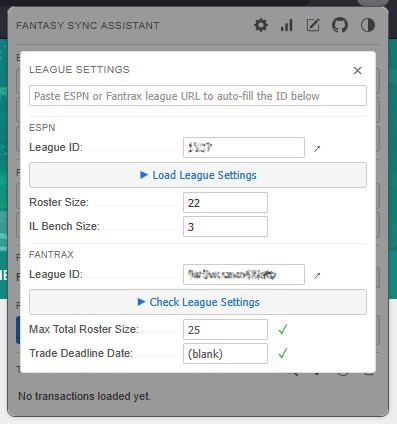
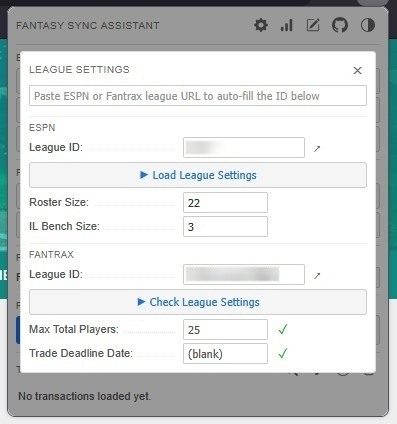
docs: add the changelog and rewrite the release steps
docs: add CHANGELOG.md with notes for every release, including an Upgrading entry for v1.1.0

docs: rename RELEASE.md to RELEASING.md and follow the shared extension release outline

docs: update the README for League Settings, Filter Queue and building from source, label the AMO and Latest Release badges, retake the League Settings screenshot, blur league IDs, league names and team names in seven others, and shrink all ten

diff --git a/README.md b/README.md
@@ -1,10 +1,10 @@
 # Fantasy Sync Assistant Extension
 
 [![Firefox Add-ons](https://img.shields.io/amo/v/fantasy-sync-assistant?label=Firefox%20Add-ons)](https://addons.mozilla.org/en-US/firefox/addon/fantasy-sync-assistant/)
-[![AMO Users](https://img.shields.io/amo/users/fantasy-sync-assistant)](https://addons.mozilla.org/en-US/firefox/addon/fantasy-sync-assistant/)
-[![AMO Rating](https://img.shields.io/amo/rating/fantasy-sync-assistant)](https://addons.mozilla.org/en-US/firefox/addon/fantasy-sync-assistant/)
-[![AMO Downloads](https://img.shields.io/amo/dw/fantasy-sync-assistant)](https://addons.mozilla.org/en-US/firefox/addon/fantasy-sync-assistant/)
-[![Latest Release](https://img.shields.io/github/v/release/wazam/fantasy-sync-extension?sort=semver)](https://github.com/wazam/fantasy-sync-extension/releases)
+[![AMO Users](https://img.shields.io/amo/users/fantasy-sync-assistant?label=AMO%20Users)](https://addons.mozilla.org/en-US/firefox/addon/fantasy-sync-assistant/)
+[![AMO Rating](https://img.shields.io/amo/rating/fantasy-sync-assistant?label=AMO%20Rating)](https://addons.mozilla.org/en-US/firefox/addon/fantasy-sync-assistant/)
+[![AMO Downloads](https://img.shields.io/amo/dw/fantasy-sync-assistant?label=AMO%20Downloads)](https://addons.mozilla.org/en-US/firefox/addon/fantasy-sync-assistant/)
+[![Latest Release](https://img.shields.io/github/v/release/wazam/fantasy-sync-extension?sort=semver&label=Latest%20Release)](https://github.com/wazam/fantasy-sync-extension/releases)
 
 ![Fantasy Sync Assistant icon](assets/icon-48.png) **Fantasy Sync Assistant** is a Firefox extension for competitive fantasy baseball players who mirror their ESPN league on Fantrax. Fantrax's available trending players page becomes accurate only when your Fantrax rosters match ESPN exactly. This extension scrapes ESPN transactions and draft picks into a queue and replays each move on the Fantrax Commissioner pages, keeping your mirror up to date without manual re-entry.
 
@@ -14,25 +14,25 @@ Download the extension from the [Firefox Add-ons](https://addons.mozilla.org/en-
 
 ## Usage
 
-1. Save your ESPN and Fantrax league IDs in the popup Quick Links section, or paste a full league URL to auto-fill the ID
-2. Open League Settings and click **Check League Settings** to confirm Fantrax's max roster size covers ESPN's roster + IL, and that no trade deadline is set to block replaying older trades
+1. Click the gear icon to open League Settings and save your ESPN and Fantrax league IDs, or paste a full league URL to auto-fill each ID
+2. Open League Settings and click **Check League Settings** to confirm Fantrax's **Max Total Players** covers ESPN's roster + IL, and that no trade deadline is set to block replaying older trades
 3. Navigate to an ESPN Recent Activity or Draft Recap page, or click **Load All Activity**, to scrape transactions into the queue
-4. Optionally, set the From / To cutoff range to narrow which transactions will be processed
+4. Optionally, set the From / To range under Filter Queue to narrow which transactions will be processed
 5. Click **Auto Run** to process the entire queue automatically, or **Manual Step** to process the next transaction one at a time; the extension navigates the active tab to the correct Fantrax Commissioner page (Claim/Drop, Trade, or Draft Import) on its own
 
 ## Features
 
 * **Transaction Queue**: scrapes transactions from ESPN Recent Activity and Draft Recap pages; processed transactions are marked with strikethrough and out-of-window transactions are shown in grey
-* **Exclude Transactions**: Ctrl+click any queue row to skip it during processing; click again to restore it
+* **Exclude Transactions**: Ctrl+click any queue row to skip it during processing; Ctrl+click again to restore it
 * **Queue Controls**: search icon filters the queue by player name; funnel icon filters to only broken transactions that need a fix; clock icon opens a read-only history of everything already processed; trash icon clears the entire queue
-* **Cutoff Range**: From / To datetime fields define the window of transactions to process; click any queue row to set the lower bound instantly; drag across rows to set both bounds; paste ESPN-format timestamps like "Mon Apr 6 6:19 am" and they auto-convert to the correct format
+* **Filter Queue**: From / To datetime fields define the window of transactions to process; click any queue row to set the lower bound instantly; drag across rows to set both bounds; paste ESPN-format timestamps like "Mon Apr 6 6:19 am" and they auto-convert to the correct format
 * **Auto Run**: processes the entire transaction queue automatically, navigating between Fantrax pages as needed; click again while running to stop
 * **Manual Step**: processes one transaction at a time, navigating to the right Fantrax page first if needed; click again while Auto Run is active to stop it
 * **Fix Broken Transaction**: on the rare occasion ESPN's own page is missing a player's identity, the affected row is highlighted and a modal lets you fill in the name, MLB team, and position manually so the queue can continue
 * **Skip & Continue**: when Fantrax can't complete a transaction automatically (an ambiguous name match, a player not found, a trade deadline in the way, and similar cases), the extension shows exactly why and lets you finish it manually on Fantrax, then skip past it without reprocessing
 * **Transaction Types**: handles adds, drops, trades, and draft picks; searches for players by name with fallback variants for initials, accents, hyphens, and MLB team disambiguation
-* **Quick Links**: ESPN and Fantrax league IDs can be saved by pasting a full league URL or just the extracted ID; one-click buttons open the corresponding league page, walk every page of ESPN activity or roster updates, or import your ESPN Watch List into Player Notes
-* **League Settings Verification**: checks Fantrax's max roster size against ESPN's roster + IL requirement and confirms the Trade Deadline Date is blank, since a set deadline blocks replaying trades from earlier in the season
+* **Quick Links**: one-click buttons that use your saved league IDs to open the corresponding league page, walk every page of ESPN activity or roster updates, or import your ESPN Watch List into Player Notes
+* **League Settings Verification**: ESPN and Fantrax league IDs can be saved by pasting a full league URL or just the extracted ID; checks Fantrax's Max Total Players against ESPN's roster + IL requirement and confirms the Trade Deadline Date is blank, since a set deadline blocks replaying trades from earlier in the season
 * **Roster Updates Tracking**: indexes ESPN roster/lineup moves separately from adds, drops, and trades, without touching the transaction queue, purely to feed Manager Stats
 * **Manager Stats**: Most Dropped, Most Added, and Most Trades leaderboards, plus three "by Hour" breakdowns (transactions, roster updates, and both combined) showing when each manager is most active, all filterable by team
 * **Player Notes**: freeform notes per player, independent of the transaction queue, searchable by name or note text, with one-click import from your ESPN Watch List
@@ -41,7 +41,7 @@ Download the extension from the [Firefox Add-ons](https://addons.mozilla.org/en-
 
 ![League Settings modal showing ESPN and Fantrax league IDs, roster settings, and verified checkmarks](<docs/screenshot league settings.jpg>)
 
-League Settings modal with both ESPN and Fantrax league IDs saved, ESPN roster/IL sizes loaded, and Fantrax's Max Total Roster Size and Trade Deadline Date both verified with green checkmarks.
+League Settings modal with both ESPN and Fantrax league IDs saved, ESPN roster/IL sizes loaded, and Fantrax's Max Total Players and Trade Deadline Date both verified with green checkmarks.
 
 ![Extension popup in dark mode showing Quick Links and an empty transaction queue](<docs/screenshot dark mode.jpg>)
 
@@ -81,7 +81,7 @@ All Activity by Hour, showing each manager's single busiest hour combining trans
 
 ## Issues and Feature Requests
 
-Report bugs, league setting problems, or feature requests by opening an issue on the GitHub repository. See [ROADMAP.md](ROADMAP.md) for planned and proposed features.
+Report bugs, league setting problems, or feature requests by opening an issue on the [GitHub repository](https://github.com/wazam/fantasy-sync-extension/issues). See [ROADMAP.md](ROADMAP.md) for planned and proposed features, and [CHANGELOG.md](CHANGELOG.md) for what changed in each release.
 
 ## Build from Source
 
@@ -96,10 +96,10 @@ Standard Firefox requires all add-ons to be signed by Mozilla. Unsigned local bu
    cd fantasy-sync-extension
    ```
 
-4. Install dependencies and build the extension package:
+4. Install Node 26 LTS (the version in `.tool-versions`), then install the exact dependency versions from `package-lock.json` and build the extension package:
 
    ```bash
-   npm install
+   npm ci
    npm run build
    ```
 

diff --git a/RELEASING.md b/RELEASING.md
@@ -1,0 +1,158 @@
+# Releasing
+
+How to ship a new version of Fantasy Sync Assistant. Versions follow semver (`vX.Y.Z`), and the release notes live in [CHANGELOG.md](CHANGELOG.md).
+
+## 1. Bump the version
+
+The version appears in three places, and all of them must match:
+
+- `manifest.json`: `"version": "X.Y.Z"`
+- `package.json` and `package-lock.json`: both updated by `npm version X.Y.Z --no-git-tag-version`
+
+Check that they match. This should print `X.Y.Z` four times (`package-lock.json` carries it twice):
+
+```bash
+grep -m2 -n '"version"' manifest.json package.json package-lock.json
+```
+
+Only if this release relies on a newer Firefox API, also bump `browser_specific_settings.gecko.strict_min_version` in `manifest.json` (e.g. `"A.B"`, Firefox's own major.minor, independent of the extension's version), and add an Upgrading entry telling users which Firefox version they need.
+
+## 2. Write the release notes in CHANGELOG.md
+
+Rename the `## Unreleased` heading to the new version, and go over its notes against the rules below. If there's no Unreleased section, add the version's section at the top, under the intro paragraph:
+
+```markdown
+## [vX.Y.Z](https://github.com/wazam/fantasy-sync-extension/releases/tag/vX.Y.Z) (YYYY-MM-DD)
+
+### Upgrading
+
+- ...
+
+### What's New
+
+- ...
+
+### Bug Fixes
+
+- ...
+```
+
+- Use the date the release goes live, in local time.
+- Leave out an empty section.
+- After the release, start a new `## Unreleased` section only when the next change lands, so the top of the file never shows an empty heading.
+- The heading link stays broken until the GitHub Release exists (step 8).
+
+Rules for the notes:
+
+- Write them fresh for the people who use the extension. Never copy commit messages. Group by what changed for the user, put the most significant changes first, and use plain language instead of commit-speak (a `fix:` bullet about a gating flag becomes a plain sentence about a redirect no longer happening).
+- Call out anything users have to do after updating (approve a new permission, update Firefox, save or re-enter a league ID, re-check League Settings) under `### Upgrading`, which always comes first. Say what to do, not just what changed. When something was renamed, name the old and new values. A change in behavior that users have to act on counts too, and goes only under Upgrading so it isn't listed twice.
+- This section is the only source of the notes. AMO (step 6) and GitHub (step 8) both copy it. If AMO's character limit forces a trim, shorten only the AMO copy; CHANGELOG.md and GitHub keep the full text.
+
+## 3. Test the package
+
+If Node or web-ext needs updating, do it first (see [Updating Node and web-ext](#updating-node-and-web-ext)).
+
+```bash
+npm run lint
+npm run build
+```
+
+`npm run lint` runs `web-ext lint`, the same checks AMO runs on upload. Fix any errors before going on. `npm run build` zips the extension into `web-ext-artifacts/fantasy_sync_assistant-X.Y.Z.zip` (ignored by git). That zip is what step 6 uploads, so test it rather than the source folder, and what ships is what you tested.
+
+Load the zip as a temporary add-on: open `about:debugging#/runtime/this-firefox`, click **Load Temporary Add-on...** and select the zip. For day-to-day development, select `manifest.json` instead, so **Reload** picks up code changes without a rebuild.
+
+The package is an allowlist in [web-ext-config.mjs](web-ext-config.mjs): only the files it names ship. A file the extension needs but the allowlist leaves out will break this test.
+
+Check that:
+
+- The popup opens with no errors in the extension's console (**Inspect** on the same page).
+- **Load All Activity** fills the queue from ESPN.
+- **Check League Settings** shows both checkmarks.
+- **Manual Step** processes the next queued transaction on Fantrax.
+- Every entry in this version's notes works as described.
+
+If you change code after testing, go back to the start of this step.
+
+## 4. Commit and tag
+
+```bash
+git add manifest.json package.json package-lock.json CHANGELOG.md
+git commit -m "release: vX.Y.Z"
+git tag -a vX.Y.Z -m "vX.Y.Z"
+```
+
+Add any other files that are part of the release to the `git add` line. When the release commit bundles other changes, give each one its own prefixed line:
+
+```bash
+git commit -m "release: vX.Y.Z" -m "feat: ..." -m "fix: ..."
+```
+
+## 5. Push
+
+```bash
+git push origin main vX.Y.Z
+```
+
+## 6. Submit to Mozilla (AMO) for signing
+
+1. Go to the submission page: <https://addons.mozilla.org/en-US/developers/addon/fantasy-sync-assistant/versions/submit/>
+2. Upload the `.zip` you tested in step 3, with no rebuild.
+3. For the release notes, paste this version's section from CHANGELOG.md without its `##` heading line (trimmed if AMO's character limit requires it; see step 2).
+4. Submit for review.
+
+AMO's automated review usually signs it within minutes; a manual review, if flagged, can take longer. Check email for the approval notice.
+
+## 7. Download the signed .xpi from Mozilla
+
+Once approved, go to the versions page: <https://addons.mozilla.org/en-US/developers/addon/fantasy-sync-assistant/versions/>
+
+Find the new version and download the signed `.xpi` Mozilla generated. Its filename may not match the `.zip` you uploaded. This is the officially signed file people install, and it goes on GitHub in the next step.
+
+## 8. Create the GitHub Release
+
+Every release since v1.0.0 has attached both the signed `.xpi` and the raw `.zip` from step 3, so anyone can see the exact source that was submitted to Mozilla alongside the file people actually install.
+
+The notes come straight from this version's section in CHANGELOG.md, `###` headings and all. This pulls that section out and passes it to `gh`:
+
+```bash
+awk '/^## \[vX.Y.Z\]/{f=1;next} /^## /{f=0} f' CHANGELOG.md \
+  | gh release create vX.Y.Z path/to/downloaded-signed.xpi web-ext-artifacts/fantasy_sync_assistant-X.Y.Z.zip \
+      --title "vX.Y.Z" --latest --notes-file -
+```
+
+Or without the CLI: create the release at <https://github.com/wazam/fantasy-sync-extension/releases/new>, pick tag `vX.Y.Z`, set the title to `vX.Y.Z`, paste this version's section from CHANGELOG.md without its `##` heading line, and drag both the signed `.xpi` and the `.zip` into the assets area.
+
+## 9. Update the AMO listing and GitHub About
+
+They copy the README and don't update on their own. Do this after AMO has approved the version, so the listing describes what people can install.
+
+- **AMO listing:** if this release changed the README's intro, Usage, Features or Screenshots, open the Developer Hub, choose **Edit Product Page**, and update the summary, description and screenshots to match. The listing is separate from the version's release notes.
+- **GitHub About:** one sentence of at most 100 characters that says what the README's first sentence says. Change it only when that sentence changes, through the gear icon next to About or `gh repo edit wazam/fantasy-sync-extension --description "..."`.
+
+## 10. Verify
+
+- The AMO listing shows the new version live: <https://addons.mozilla.org/en-US/firefox/addon/fantasy-sync-assistant/>
+- The GitHub Release shows the `.xpi` and `.zip` attached and downloadable: <https://github.com/wazam/fantasy-sync-extension/releases>
+- The version's heading link in CHANGELOG.md opens its GitHub Release.
+- Every release page matches CHANGELOG.md:
+
+  ```bash
+  for v in $(git tag -l 'v*'); do
+    diff <(gh release view $v --json body -q .body | tr -d '\r' | sed '/^$/d') \
+         <(awk "/^## \\[$v\\]/{f=1;next} /^## /{f=0} f" CHANGELOG.md | sed '/^$/d') >/dev/null \
+      && echo "$v matches" || echo "$v DIFFERS"
+  done
+  ```
+
+  For a page that differs, move anything better on the page into CHANGELOG.md first, then overwrite the page: `awk "/^## \\[$v\\]/{f=1;next} /^## /{f=0} f" CHANGELOG.md | gh release edit $v --notes-file -`.
+- The README badges need no edits: they're shields.io endpoints pulling live from AMO and GitHub, so they update on their own once both of the above are live.
+- The README still matches the extension, and the AMO listing matches the README. Unlike the badges, neither updates itself.
+
+## Updating Node and web-ext
+
+Neither ships: the zip holds only the files named in `web-ext-config.mjs`. Update them on purpose (an `npm audit` alert, Node leaving support, or the start of a new round of work), and only before step 3, never between the test and the tag.
+
+- **Node** lives only in `.tool-versions`. Use the current LTS line (an even major version): `asdf install nodejs <version>`, change `.tool-versions`, then `rm -rf node_modules && npm ci`.
+- **web-ext:** `npm install --save-dev web-ext@<version>`, then `npm audit fix`. Never `--force`, which can downgrade web-ext.
+- Then run step 3 in full, and check the zip lists the same files as before.
+- Commit the update on its own: `chore: update Node to <version> and web-ext to <version>`.

diff --git a/CHANGELOG.md b/CHANGELOG.md
@@ -1,0 +1,92 @@
+# Changelog
+
+Release notes for every version, newest first. Each version is tagged in git and has a matching [release on GitHub](https://github.com/wazam/fantasy-sync-extension/releases) with the signed `.xpi` and source `.zip` attached. Changes that haven't been released yet collect under **Unreleased**, and [RELEASING.md](RELEASING.md) covers how to ship them.
+
+## Unreleased
+
+### What's New
+
+- Renamed League Settings' Max Total Roster Size to Max Total Players, the name Fantrax uses, so it's easier to find on Fantrax's settings page.
+- Screen readers announce the From and To date fields and each League Settings field by name.
+- Clearer wording in tooltips and alerts.
+
+## [v1.2.0](https://github.com/wazam/fantasy-sync-extension/releases/tag/v1.2.0) (2026-09-16)
+
+### What's New
+
+- Added a Skip & Continue flow: when Fantrax can't complete a transaction automatically (an ambiguous name, a missing player, a trade deadline in the way), it explains why and lets you finish manually, then skip past it without reprocessing.
+- Added a Fix Broken Transaction modal for ESPN's rare missing-player-name bug, letting you fill in the info manually instead of getting stuck.
+- Overhauled League Settings: paste a full ESPN or Fantrax league URL to auto-fill the ID, then use Load/Check League Settings to pull ESPN's roster size and verify Fantrax's Max Total Roster Size and Trade Deadline Date, with checkmarks once confirmed.
+- Added a new Manager Stats modal: leaderboards for Most Added, Most Dropped, and Most Trades, plus three "by Hour" views (transactions, roster updates, and both combined) showing when each manager is most active, filterable by team, with mid-season renames rolled up correctly.
+- Added Roster Updates tracking: indexes ESPN lineup/roster moves separately from the transaction queue, to power Manager Stats.
+- Added a new Player Notes modal: jot down freeform notes per player (watchlist flags, scouting reminders, etc.), search by name or note, and import your ESPN Watch List with one click.
+- Added a Processed History viewer to review every transaction already synced to Fantrax.
+- Only one Load/Step/Auto Run action can run at a time now, preventing overlapping runs.
+- The toolbar badge now turns amber for broken transactions and red for ones needing a manual pick.
+- General UI polish: clearer tooltips, consistent light/dark contrast, and cleaner layouts across the queue and settings.
+
+### Bug Fixes
+
+- Fixed Fantrax rejection alerts (like a trade deadline blocking a replay) getting silently marked as processed even though nothing was applied; these now surface for manual resolution.
+- Fixed long ESPN scrapes (Load All Activity, Load Roster Updates) hanging or crashing the tab on very long runs; hung pages now retry automatically and the tab recycles periodically.
+- Fixed a player's name getting lost entirely when ESPN omits their team and position after a real MLB release; the name is now preserved.
+- Fixed Load All Activity stopping early on pages with real activity but no adds, drops, or trades (e.g. all roster moves), cutting historical imports short.
+- Fixed the extension retrying forever, or showing a confusing error, when ESPN denies access (wrong League ID, or logged out); it now stops immediately with a clear message.
+- Fixed the Fantrax settings checkmarks getting stuck hidden instead of resetting.
+- Fixed a small height flicker on the League Settings modal's buttons from inconsistent icon font rendering.
+
+## [v1.1.3](https://github.com/wazam/fantasy-sync-extension/releases/tag/v1.1.3) (2026-08-27)
+
+### What's New
+
+- Already-imported transactions are now remembered across browser reloads and rescrapes, so re-scraping ESPN (even a partial range) no longer re-queues moves you've already processed on Fantrax.
+
+### Bug Fixes
+
+- Fixed the wrong player getting selected (e.g. a hitter instead of a pitcher) when two players share the same name and MLB team; matching now checks position as well as team abbreviation.
+
+## [v1.1.2](https://github.com/wazam/fantasy-sync-extension/releases/tag/v1.1.2) (2026-04-30)
+
+### Bug Fixes
+
+- Fixed the right player not being found when several results share the same name: the team abbreviation could run together with the status text, so the match failed silently and a manual selection popup appeared.
+
+## [v1.1.1](https://github.com/wazam/fantasy-sync-extension/releases/tag/v1.1.1) (2026-04-22)
+
+### Bug Fixes
+
+- Fixed drops that come with a Trade Processed row being silently missed; they're now added to the queue.
+
+## [v1.1.0](https://github.com/wazam/fantasy-sync-extension/releases/tag/v1.1.0) (2026-04-19)
+
+### Upgrading
+
+- Save your ESPN league ID in Quick Links. ESPN pages aren't scraped into the queue until the saved ID matches the page's league.
+
+### What's New
+
+- Auto Run (F8) processes the entire queue automatically, navigating between Fantrax pages as needed
+- Trade transaction support on the Fantrax Trade page
+- Draft recap scraping from the ESPN Draft Recap page
+- Upper cutoff (To field) for date range filtering; drag across queue rows to set both bounds
+- Ctrl+click any queue row to exclude it from processing
+- Queue search, reset, and clear controls
+- Quick Links with saved ESPN and Fantrax league IDs and one-click navigation
+- Roster size recommendation display with IL buffer explanation
+- Light and dark theme toggle
+- Player name search fallbacks for initials, dots, accents, hyphens, and MLB team disambiguation
+- League ID guard prevents processing on the wrong Fantrax league
+- Queue index persists across browser sessions
+
+## [v1.0.0](https://github.com/wazam/fantasy-sync-extension/releases/tag/v1.0.0) (2026-04-19)
+
+Initial release.
+
+### What's New
+
+- Scrapes ESPN Recent Activity and Draft Recap pages into a transaction queue
+- Processes adds and drops on the Fantrax Commissioner Claim/Drop page
+- F7 keyboard shortcut processes the next transaction on the current Fantrax tab
+- Cutoff date field filters out transactions before a set date
+- ESPN-format timestamps auto-convert when pasted into the cutoff field
+- Queue display shows all transactions with processed entries marked as strikethrough

diff --git a/ROADMAP.md b/ROADMAP.md
@@ -18,7 +18,7 @@ Collected ideas for future development. Not actively planned or prioritized.
 
 4. **Configurable Keybindings**: allow users to set or disable keyboard shortcuts for the Step and Auto Run actions from the popup settings
 
-5. **Watchlisted Player Notes to Fantrax Watchlist**: mark each player from Player Notes entries tagged "Watchlist" as watched on Fantrax (exact mechanism TBD, likely from the Available Trending Players page), so privately-tracked targets also surface in Fantrax's own watchlist views without ESPN ever exposing that interest to leaguemates
+5. **Watchlisted Player Notes to Fantrax Watchlist**: mark each player from Player Notes entries tagged "Watchlist" as watched on Fantrax (exact mechanism TBD, likely from the available trending players page), so privately-tracked targets also surface in Fantrax's own watchlist views without ESPN ever exposing that interest to leaguemates
 
 6. **Scheduled ESPN to Fantrax Sync**: automatically check the ESPN league for new transactions on a schedule and import them to Fantrax without manual triggering
 
